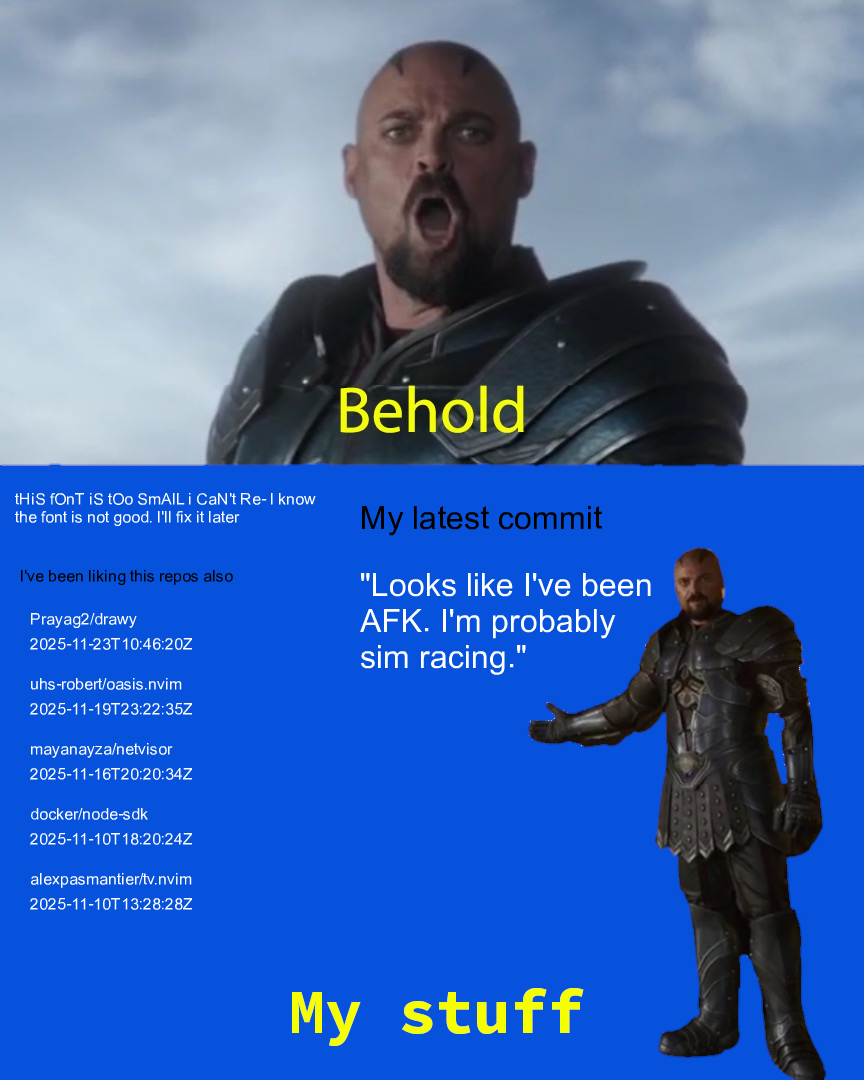
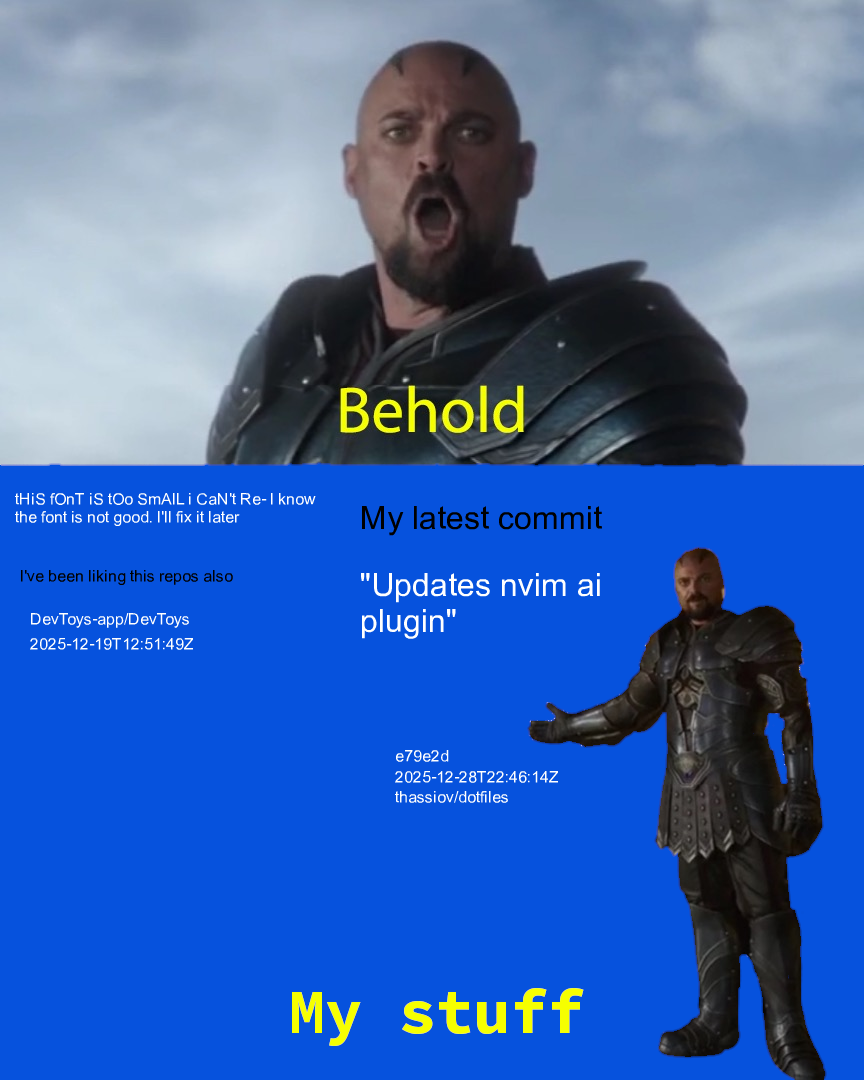
Fixes github api interaction

Changed region(s): [[0.0312, 0.55, 0.2188, 0.8556], [0.4062, 0.5194, 0.75, 0.6417], [0.4688, 0.6722, 0.6562, 0.7639]]

diff --git a/src/index.ts b/src/index.ts
@@ -45,21 +45,38 @@ async function getRecentActivity(): Promise<GHActivityResponseList> {
 /**
  * Gets my latest commit
  */
-function getLatestCommit(response: GHActivityResponseList): Commit | string {
-  const latestCommit = response.find(
+async function getLatestCommit(
+  response: GHActivityResponseList
+): Promise<Commit | string> {
+  const latestPushEvent = response.find(
     (item) => item.type === 'PushEvent' && item.public === true
   );
 
-  if (!latestCommit) {
+  if (!latestPushEvent) {
     return "Looks like I've been AFK. I'm probably sim racing.";
   }
 
-  return {
-    repo: latestCommit!.repo.name,
-    commitSha: (latestCommit!.payload as any).commits[0].sha as string,
-    message: (latestCommit!.payload as any).commits[0].message as string,
-    pushedAt: latestCommit.created_at as string,
-  };
+  const [owner, repo] = latestPushEvent.repo.name.split('/') as [string, string];
+  const sha = (latestPushEvent.payload as any).head as string;
+
+  try {
+    const commitDetails = await gh.rest.repos.getCommit({
+      owner,
+      repo,
+      ref: sha,
+    });
+
+    return {
+      repo: latestPushEvent.repo.name,
+      commitSha: sha,
+      message: commitDetails.data.commit.message,
+      pushedAt: latestPushEvent.created_at as string,
+    };
+  } catch (error) {
+    throw new GHAPICallError('Could not fetch commit details from GitHub', {
+      cause: error as Error,
+    });
+  }
 }
 
 /**
@@ -238,7 +255,7 @@ async function saveNewimage(image: Jimp): Promise<void> {
     let image = await readBaseImage();
 
     image = await addFontSizeNotice(image);
-    image = await addLatestCommitInfoToImage(image, getLatestCommit(resp));
+    image = await addLatestCommitInfoToImage(image, await getLatestCommit(resp));
     image = await addStarredReposToImage(image, getLatestWatchedRepos(resp));
 
     await saveNewimage(image);
